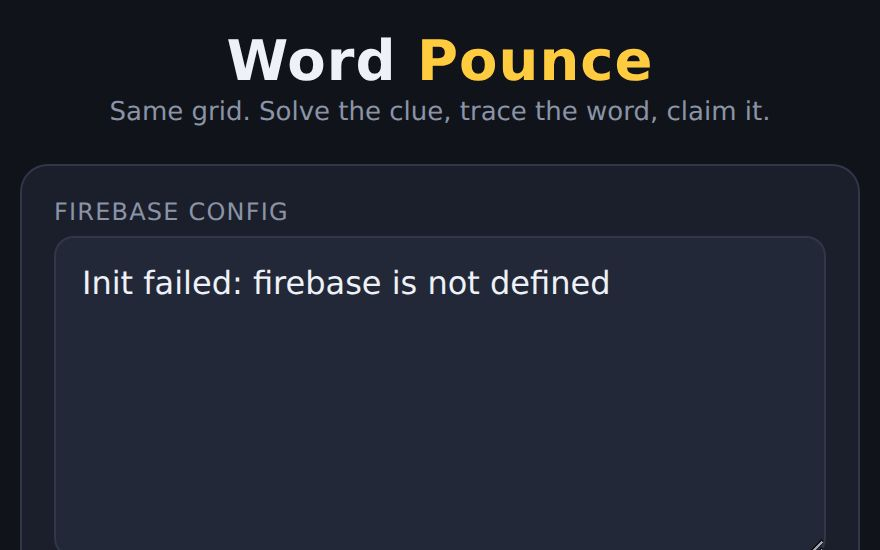
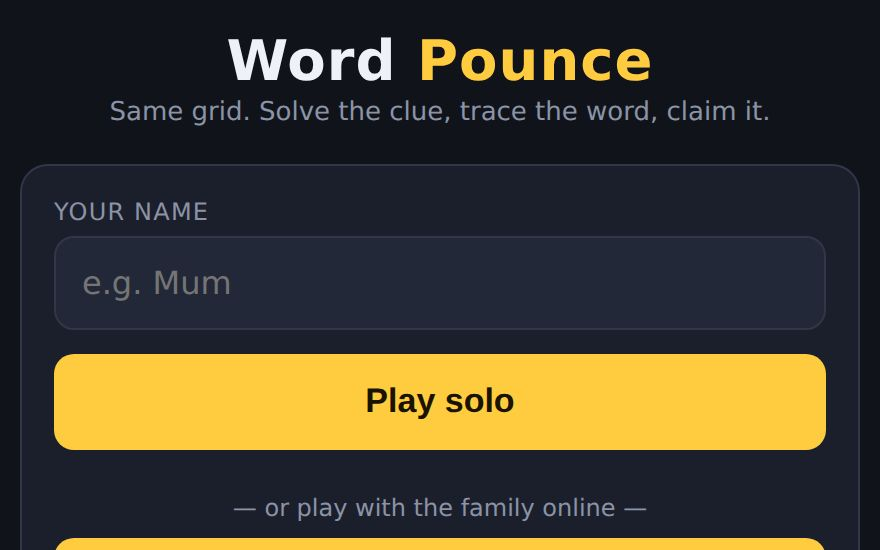
Word Pounce: add a Solo mode so it plays without Firebase
The game was multiplayer-only and hard-failed to a raw 'Init failed: firebase
is not defined' screen when the Firebase SDK didn't load. Add:

- A tiny in-memory stand-in for the slice of the Realtime Database API the game
  uses (ref/child/set/update/get/remove/on/off/transaction/onDisconnect), so the
  whole game — all five modes, scoring, claims — runs locally with no backend.
- A 'Play solo' button (skips the waiting-room countdown) and solo-aware copy.
- Graceful boot: if Firebase is unavailable, hide multiplayer and note that solo
  still works, instead of showing an init error.

Regenerate the arcade thumbnail (now the inviting home screen, not an error).

diff --git a/mustdesigngames/word-pounce/index.html b/mustdesigngames/word-pounce/index.html
@@ -118,18 +118,25 @@
   <div id="home" class="card hidden">
     <label>Your name</label>
     <input id="name" maxlength="12" placeholder="e.g. Mum" />
-    <button id="createBtn">Create a room</button>
-    <div class="row">
-      <input id="joinCode" class="code" maxlength="4" placeholder="CODE" />
+    <button id="soloBtn">Play solo</button>
+    <div id="mp">
+      <div class="note" style="text-align:center;margin:12px 0 6px">— or play with the family online —</div>
+      <button id="createBtn">Create a room</button>
+      <div class="row">
+        <input id="joinCode" class="code" maxlength="4" placeholder="CODE" />
+      </div>
+      <button id="joinBtn" class="ghost">Join room</button>
     </div>
-    <button id="joinBtn" class="ghost">Join room</button>
+    <div id="mpNote" class="note hidden" style="text-align:center"></div>
     <div id="homeErr" class="err"></div>
   </div>
 
   <!-- LOBBY -->
   <div id="lobby" class="card hidden">
-    <label>Room code — share it with the family</label>
-    <div id="lobbyCode" class="roomcode">----</div>
+    <div id="roomCodeRow">
+      <label>Room code — share it with the family</label>
+      <div id="lobbyCode" class="roomcode">----</div>
+    </div>
     <label>Game</label>
     <select id="gameSel">
       <option value="search">Word Search</option>
@@ -432,6 +439,60 @@ let answer = "", wGuesses = [], wSolved = false;                     // Wordle (
 let sel = [], dragging = false, timerInt = null, roundStart = 0, lobbyInt = null, lobbyAt = 0;
 const $ = id => document.getElementById(id);
 const show = (...ids) => { ["setup","home","lobby","game"].forEach(s => $(s).classList.add("hidden")); ids.forEach(i => $(i).classList.remove("hidden")); };
+let solo = false, localDb = null;
+
+/* ============================================================
+   SOLO MODE — a tiny in-memory stand-in for the slice of the
+   Firebase Realtime Database API this game uses (ref / child /
+   set / update / get / remove / on("value") / off / transaction /
+   onDisconnect + snapshot exists()/val()). It lets the whole game —
+   every mode, scoring, claims, round flow — run locally with no
+   network and no backend, so a single player can just play.
+   ============================================================ */
+function makeLocalDb() {
+  const root = {}, subs = [];
+  const clone = v => v == null ? v : JSON.parse(JSON.stringify(v));
+  const nodeAt = p => { let n = root; for (const k of p) { if (n == null) return null; n = n[k]; } return n === undefined ? null : n; };
+  const writeAt = (p, v) => {
+    if (!p.length) { Object.keys(root).forEach(k => delete root[k]); if (v && typeof v === "object") Object.assign(root, clone(v)); return; }
+    let n = root;
+    for (let i = 0; i < p.length - 1; i++) { const k = p[i]; if (n[k] == null || typeof n[k] !== "object") n[k] = {}; n = n[k]; }
+    const last = p[p.length - 1];
+    if (v == null) delete n[last]; else n[last] = clone(v);
+  };
+  const snap = p => ({ exists: () => nodeAt(p) != null, val: () => clone(nodeAt(p)), child: k => snap(p.concat(String(k).split("/").filter(Boolean))) });
+  const online = (a, b) => { const n = Math.min(a.length, b.length); for (let i = 0; i < n; i++) if (a[i] !== b[i]) return false; return true; }; // one path is a prefix of the other
+  const fire = p => subs.slice().forEach(s => { if (online(s.path, p)) s.cb(snap(s.path)); });
+  const seg = k => String(k).split("/").filter(Boolean);
+  const ref = p => ({
+    child: k => ref(p.concat(seg(k))),
+    set(v) { writeAt(p, v); Promise.resolve().then(() => fire(p)); return Promise.resolve(); },
+    update(o) { const ks = Object.keys(o); ks.forEach(k => writeAt(p.concat(seg(k)), o[k])); Promise.resolve().then(() => ks.forEach(k => fire(p.concat(seg(k))))); return Promise.resolve(); },
+    remove() { writeAt(p, null); Promise.resolve().then(() => fire(p)); return Promise.resolve(); },
+    get() { return Promise.resolve(snap(p)); },
+    on(ev, cb) { if (ev === "value") { subs.push({ path: p, cb }); Promise.resolve().then(() => cb(snap(p))); } return cb; },
+    off() { for (let i = subs.length - 1; i >= 0; i--) if (online(subs[i].path, p)) subs.splice(i, 1); },
+    onDisconnect() { return { remove: () => Promise.resolve() }; },
+    transaction(fn) { const next = fn(clone(nodeAt(p))); if (next === undefined) return Promise.resolve({ committed: false, snapshot: snap(p) }); writeAt(p, next); Promise.resolve().then(() => fire(p)); return Promise.resolve({ committed: true, snapshot: snap(p) }); },
+  });
+  return { ref: path => ref(seg(path)) };
+}
+function startSolo() {
+  solo = true; isHost = true;
+  localDb = makeLocalDb();
+  pid = "solo";
+  const name = ($("name").value.trim() || "You").slice(0, 12);
+  localStorage.setItem("wp_name", name);
+  myColor = COLORS[0]; myEmoji = EMOJIS[0];
+  code = "SOLO";
+  roomRef = localDb.ref("rooms/SOLO");
+  roomRef.set({ status: "lobby", host: pid, theme: "Mixed", mode: "search", round: 0, created: Date.now() });
+  roomRef.child("players/" + pid).set({ name, color: myColor, emoji: myEmoji });
+  $("gameCode").textContent = "SOLO";
+  $("roomCodeRow").classList.add("hidden");
+  bindListeners();
+  show("lobby");
+}
 
 /* ============================================================
    2. BOOT — wire up Firebase or prompt for config
@@ -443,19 +504,27 @@ function getConfig() {
   return null;
 }
 function boot() {
+  // Online multiplayer needs Firebase; solo never does. Wire Firebase if it's
+  // available, otherwise fall back to solo-only — no scary init errors.
   const cfg = getConfig();
-  if (!cfg) { show("setup"); return; }
-  try {
-    firebase.initializeApp(cfg);
-    db = firebase.database();
-  } catch (e) { show("setup"); $("cfgInput").value = "Init failed: " + e.message; return; }
+  let online = false;
+  if (cfg && typeof firebase !== "undefined") {
+    try { firebase.initializeApp(cfg); db = firebase.database(); online = true; }
+    catch (e) { online = false; }
+  }
   pid = localStorage.getItem("wp_pid") || (Math.random().toString(36).slice(2, 10));
   localStorage.setItem("wp_pid", pid);
   $("name").value = localStorage.getItem("wp_name") || "";
   // theme dropdown
   Object.keys(BANKS).forEach(t => { const o = document.createElement("option"); o.value = o.textContent = t; $("theme").appendChild(o); });
+  if (!online) {
+    $("mp").classList.add("hidden");
+    const n = $("mpNote"); n.classList.remove("hidden");
+    n.textContent = "Online multiplayer is offline right now — but you can play solo.";
+  }
   show("home");
 }
+$("soloBtn").onclick = startSolo;
 $("cfgSave").onclick = () => {
   let raw = $("cfgInput").value.trim();
   const m = raw.match(/\{[\s\S]*\}/);
@@ -605,6 +674,7 @@ function enterRoom(name) {
     myEmoji = EMOJIS.find(e => !takenE.includes(e)) || EMOJIS[existing.length % EMOJIS.length];
     me.set({ name, color: myColor, emoji: myEmoji });
   });
+  $("roomCodeRow").classList.remove("hidden");
   $("lobbyCode").textContent = code;
   $("gameCode").textContent = code;
   bindListeners();
@@ -614,7 +684,7 @@ function enterRoom(name) {
 function leave() {
   stopTimer(); stopLobbyTimer();
   if (roomRef) { roomRef.child("players/" + pid).remove(); roomRef.off(); }
-  roomRef = null; code = ""; isHost = false;
+  roomRef = null; code = ""; isHost = false; solo = false; localDb = null;
   $("done").classList.add("hidden");
   show("home");
 }
@@ -687,6 +757,7 @@ $("againBtn").onclick = startRound; // next round also runs the shared countdown
 // "Start round" from the lobby kicks off a shared 60s countdown so latecomers can join.
 function startRound() {
   if (!roomRef || !isHost) return;
+  if (solo) { beginPlay(); return; }   // no waiting-room countdown when you're on your own
   roomRef.update({ status: "starting", startAt: Date.now() + LOBBY_SECONDS * 1000 });
 }
 // Builds the grid and flips everyone into play. Called by the host when the countdown
@@ -718,7 +789,8 @@ function renderPlayers(players) {
     ul.appendChild(li);
   });
   const counting = lobbyInt !== null;
-  const hint = counting ? "Round starting — others can still join!"
+  const hint = solo ? "Pick a game and theme, then start."
+             : counting ? "Round starting — others can still join!"
              : isHost ? "You're the host — pick a theme and start when everyone's in."
                       : "Waiting for the host to start the round…";
   $("lobbyHint").textContent = hint;
@@ -844,10 +916,11 @@ function showStandings(claims) {
       ol.appendChild(li);
     });
     $("againBtn").classList.toggle("hidden", !isHost);
-    $("doneCode").textContent = "Room " + code + " — share it, others can still join";
+    $("doneCode").textContent = solo ? "Solo round" : "Room " + code + " — share it, others can still join";
     const reveal = answer ? "The word was " + answer + ". " : "";
-    $("doneHint").textContent = reveal + (isHost ? "Take your time — tap Play again when everyone's ready."
-                                                 : "Waiting for the host to start the next round…");
+    $("doneHint").textContent = reveal + (solo ? "Tap Play again for a fresh round."
+                                               : isHost ? "Take your time — tap Play again when everyone's ready."
+                                                        : "Waiting for the host to start the next round…");
     $("done").classList.remove("hidden");
   });
 }
@@ -952,7 +1025,7 @@ function submitWordle() {
   if (g === answer) {
     wSolved = true; const tries = wGuesses.length, p = Math.max(1, 7 - tries);
     flash("✓ solved! +" + p, "#4ade80"); claimFx(true);
-    $("wmsg").textContent = "Solved in " + tries + "! Waiting for others…";
+    $("wmsg").textContent = "Solved in " + tries + (solo ? "!" : "! Waiting for others…");
     roomRef.child("claims/" + pid).set({ ...me, p, g: tries, solved: true });
   } else if (wGuesses.length >= 6) {
     flash("out of guesses", "#ffd43b"); claimFx(false);
